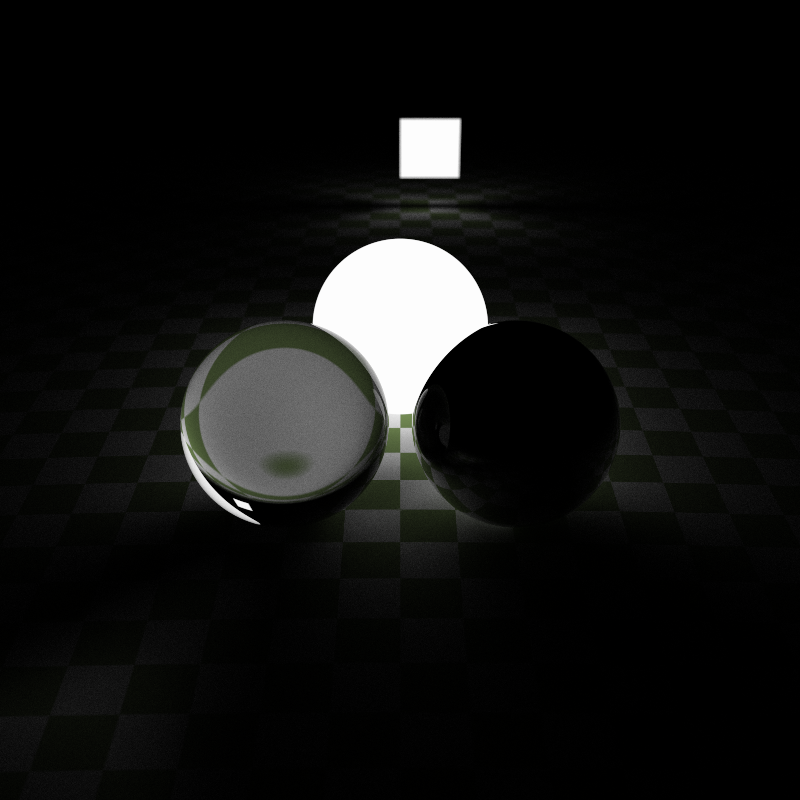
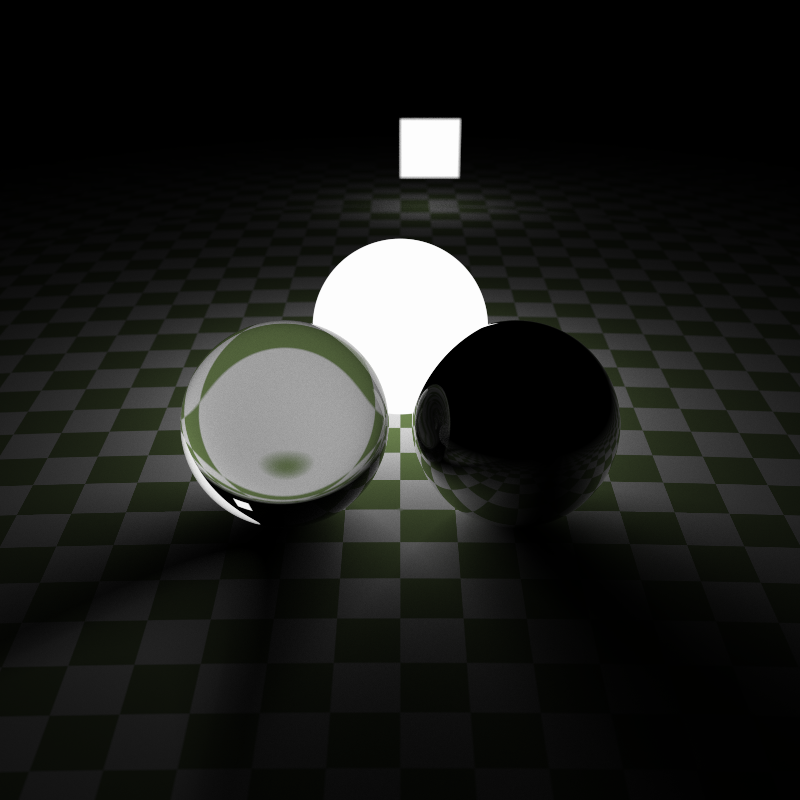
edit post

diff --git a/_posts/illumination/2024-10-30-mixture_density.md b/_posts/illumination/2024-10-30-mixture_density.md
@@ -1,0 +1,199 @@
+---
+layout: page
+title:  "混合密度"
+author: mosfet
+category: illumination
+tags: 着色 照明 理论 渲染器
+---
+混合密度的尝试[(见)](https://raytracing.github.io/books/RayTracingTheRestOfYourLife.html)。留存一些笔记和记录，而然结论无法保证正确性。  
+## 场景示例
+<div class="x gr txac">
+  <div class="x la flex mg0">
+    <div class="x la item3-lg item12 pd0">
+      <img src="/assets/i/4-1.png">
+    </div>
+    <div class="x la item3-lg item12 pd0">
+      <img src="/assets/i/4-2.png">
+    </div>
+    <div class="x la item3-lg item12 pd0">
+      <img src="/assets/i/4-3.png">
+    </div>
+  </div>
+  <p>图1：场景1。对球灯混合采样</p>
+</div>
+<div class="x gr txac">
+  <div class="x la flex mg0">
+    <div class="x la item3-lg item12 pd0">
+      <img src="/assets/i/4-4.png">
+    </div>
+  </div>
+  <p>图2：场景2。对顶灯混合采样 2024/02/22</p>
+</div>
+
+---
+## 准备
+通常情况下我永远不会强调之前的知识，但这次由于太过复杂作为**例外**。如果你已经看过辐射度理论，那么跳过这段话。  
+
+我假设您知道积分测量基本格`1*dμ`来测量域这一事实，那么通过两个积分比率`∫fxdμ`和`∫1dμ`可以得到新引入fx函数的同域平均值。  
+采样出空间中特定值的概率分布称为该随机采样变量相关的概率密度函数PDF，简单来说，这是一个因子。  
+
+我们用x、f(x)表示一个随机变量或任意随机结果函数，例如渲染结果的特定像素。  
+望值是一种对概率修正乘以实际值的积分，其定义`E(f(x)) = ∫f(x)p(x)dx`通过求和衰减实际值的概率因子获得总体上的平均值。换句话说，它查询整个域。  
+当密度相同时，一堆独立随机样本变量iid——通过`x1+x2+.../n`这种方式可以相当简单地获得数值期望解，而无需解析积分形式（但同样应该遵循密度函数以修正迭代值）。这就是蒙特卡洛积分方法的基本根据。  
+```ruby
+E(f(x)) = ∫f(x)p(x)dx           # E本身就是两项
+        ~= 1/N * Σ(i=1..N)xi.   # 数值均值估计
+
+        # 通常，将估计写成g/p的形式称为蒙特卡洛积分
+E(f(x)) = ∫f(x)p(x)dx
+        ~= 1/N [Σ(i=1..N)g(xi)/p(xi)]
+        # 即原始的f(x)p(x) = g，并显式除以p
+```
+接下来，重新回顾辐射度单位并查看渲染方程。  
+我们求解。在标准方程中，**不可能**存在我们提到的`px`密度，因为它是为特定BRDF的均匀采样设计的。  
+```ruby
+# 每个样本是vi
+E(Lo(vo)) ~= Σ gvi / pvi
+```
+
+---
+## 漫反射实验
+渲染方程是`g/p = ρLcosθ/p`。其中的要点是：BRDF-ρ(i,o)，以及g/p中的p项，即p是采样散射的密度。  
+
+回想一下原来的漫反射是什么。我们使用隐式方法修正分布，但随机数产生自均匀采样。  
+要理解本文做什么，还是得要从方程入手。  
+```cpp
+// 保留我们的基本原始实现
+void LambertianOriginal( in Material self, in vec3 rec_n, out vec3 rayd, out vec3 albedo) {
+  rayd = rec_n + H_random_unit_vector();
+  if (H_nearlly_zero(rayd)) rayd = rec_n;
+  albedo *= self.albedo;
+}
+```
+
+#### 推导朗伯分布密度(5) 
+散射半球的概率积分为`1`，我们可以从朗伯的本身行为推测密度函数。  
+由于这个概率受到角度余弦值`C * cosθ`线性影响(随着角度具有更大概率或配重)，
+从球极位系积分是一个好技巧，该倍率为`C=1/pi`，以缩放到代表其每一处的基本概率。因此`PDF = cosθ / pi`。  
+```ruby
+∫hemisphere|pdf = 1
+```
+
+原作者将这个密度称为`sp(散射密度)`，但笔者没弄白这是什么以及属于哪个部分，似乎可能是"BRDF"的一部分并用于我们接下来用渲染方程代替。  
+至少现在我们可以从一个可用的密度函数开始审视方程。  
+
+#### 朗伯渲染方程和重要性采样(6)
+这里有一个奇怪的结论，**朗伯行为的BRDF就是朗伯密度PDF**。因此当前渲染方程为`L *= (self.albedo) ρdot(n, out) / p`。注意反照率从未在方程中说明，而是通常结合在BRDF中。  
+我不清楚隐式行为(即看上去类似于又一次额外分配)和BRDF有什么关系，均匀生成散射并使用BRDF似乎已经说明了让结果符合朗伯。  
+目前的推测是，如果再使用隐式分配或者除以对应的采样密度(前者可以仍然保持p为更简单的均匀采样)，这两种方式的效果是一样的。而这个过程已经称为重要性采样策略，使得结果更快符合BRDF模型。  
+```cpp
+// 明确渲染方程
+void Lambertian( in Material self, in vec3 rec_n, out vec3 rayd, out vec3 albedo) {
+  rayd = rec_n + H_random_unit_vector();
+  if (H_nearlly_zero(rayd)) rayd = rec_n;
+
+  float lambertian_brdf = dot(rec_n, normalize(rayd)) / C_PI;
+  float p = 1.0 / C_TWO_PI;
+  albedo *= self.albedo * lambertian_brdf * dot(rec_n, rayd) / p;
+}
+```
+实际上我得到了与以往都更亮的结果。  
+
+相同的BRDF材料不会影响收敛结果，重要性采样(隐式或密度)仅影响收敛速度。  
+结果本身只受材料的散射行为(BRDF)影响。改变材质将从根本上改变渲染，算法将收敛到不同的答案。  
+
+存在的差异不仅仅是噪音。高大的盒子正面颜色更加均匀。如果您不确定材质的最佳采样模式是什么，那么继续假设均匀采样是相当合理的，虽然这可能会缓慢收敛，但它不会破坏您的渲染。
+也就是说，先确保你的BRDF是绝对正确的，在考虑是否需要快速采样。如果使用了错误的BRDF，这种错误很难发现，因为你不知道初始就应该正确的样子。  
+
+---
+## 引导灯密度(9)
+如前所述(PBR)，阴影光线可能是解决直接照明问题的一种办法。  
+而然，想象一下，实际上可以通过将散射区域完全只指向灯光获得类似的效果，即令表面仅可能被来自灯光方向的光线照亮。  
+在代码上，这可能很抽象，你只需要强制指定这次散射指向被采样的光线。  
+
+如果用上文的话来说，这同样是隐式重要性采样，**但此时必须更改BRDF正确**。有这种BRDF吗？这可能吗？唯一的方法就是计算采样灯球的密度函数。  
+```
+抓取索引光线 -> 计算密度 -> 应用密度因子
+```
+唯一的问题是我们需要知道`p(v)`，但那是什么？  
+```ruby
+# 最好将点和角度视为微面和微立体角。dA dv，dA比dv的面积大得多，这是有道理的
+# 我们通过采样dA(知道其概率)进而采样dv(的概率)，因此可以获得正确的p
+P(dA) = 1 / A   # 1/A
+p(dv) = ?        #
+
+# 面积dA、dv存在几何关系
+dv = dAcosθ / dot(grab-p, grab-p)  # 注意，将其视为面积，而点则只是点，提供距离
+# 由于采样概率相同
+  p(dv) = p(da)    # 这里可以视为点………
+p(dv)dv = p(da)dA
+
+p(dv) = dot(grab-p,grab-p)/ cosθA
+```
+```cpp
+// 采样灯光
+float tmp_area;
+void grab_lightray(out vec3 origin, out vec3 ray) {
+  // get a lightsource point
+  vec3 light_pos = vec3(-1.25 + H_rand(0.0, 2.5), 4.99, -1.5 + H_rand(0.0, 2.0));
+  // calc area
+  tmp_area = 5.0;
+  ray = light_pos - origin;
+}
+float lights_pdf( in vec3 lightray, in vec3 n) {
+  float dist_square = dot(lightray, lightray);
+  lightray = normalize(lightray);
+  float n_cosine = dot(n, lightray);
+  if (n_cosine < 0.0) return -1.0; // 拒绝与灯相背离的遮挡表面
+  float p = dist_square / (dot(n, lightray) * tmp_area);
+  return p;
+}
+```
+我们已经知道如何将散射线定向至灯源，从而忽略其他方向，并因为在下一次击中灯具结束。  
+这种定向到直接照明灯具的材料似乎可以视作一种新BRDF材料，因为其散射很特别。  
+先尝试一下覆盖漫射表面，对于其他材料BRDF，暂时先不说明有什么用。  
+```cpp
+// if (material.mid == M_LAMBERTIAN) {
+  // Lambertian(material, normal, ray_path, albedo);
+
+  grab_lightray(p, ray_path);
+  float lights_p = lights_pdf(ray_path, normal);
+  if (lights_p < 0.0) return vec3(0.0);
+  albedo *= material.albedo / lights_p;
+// }
+```
+
+---
+## 混合模式(10)
+```cpp
+if (rand() < 0.5) {
+  grab_lightray(p, ray_path);
+  float lights_p = lights_pdf(ray_path, normal);
+  if (lights_p < 0.0) return vec3(0.0);
+  albedo *= material.albedo / lights_p;
+} else {
+  Lambertian(material, normal, ray_path, albedo);
+}
+```
+最后我们介绍混合多种重要性采样的机制以合并结果。  
+①最简单的方式是让光线随机选择一个PDF采样。例如，对半可能是个不错的选择。  
+但这种方式会在迭代时出现大量明暗线，因为单次结果混乱，尽管不影响结果。  
+
+②另一种方式是**单次**采样**已混合的PDF**，从而获得更为接近结果的平缓度。  
+回忆一下，朗伯的重要性模式是隐式强制实现的，在其**渲染方程形式**实际所使用的密度实际上仍然为均匀因子。**我们复制出来作为参考。**  
+目的是混合这两个PDF。  
+
+概念上理解有点困难，总之，笔者暂时不使用这个。  
+```cpp
+```
+
+---
+#### 对比阴影光线(11)
+本文说明的`混合密度(mixture density)`是对更传统的**阴影光线**的替代方法。除了灯光之外，还可以对窗户或门下明亮的裂缝或任何您认为可能明亮或重要的东西进行采样。但大多数专业路径追踪器中看到阴影光线也是很正常的。  
+对于粗略结果来说，阴影光线往往比混合密度更便宜，并且在实时中变得越来越普遍。  
+
+#### 尾章(12)
+玻璃物体很难很好地渲染，除了灯光以外可能还需要另一些进行重要性采样。  
+
+12.3.  
+略暂不实现。  

diff --git a/_posts/illumination/2024-10-24-illumination.md b/_posts/illumination/2024-10-24-illumination.md
@@ -1,14 +1,14 @@
 ---
 layout: page
-title:  "照明"
+title:  "方法"
 author: mosfet
 category: illumination
 tags: 着色 照明
 ---
-如何巧妙组合各种着色技术可能是一项复杂的决策。  
-除了经典的全局光照算法外，传统着色模型可以通过精心设计的调整为场景提供可信的照明。  
+有许多照明或者着色技术，如何对场景根据需要选择渲染方式和照明？  
+经典的全局光照算法之外，传统着色模型也可以通过精心设计的调整为场景提供可信的照明！  
 
-**户外照明**(Inigo Quilez介绍的方法)  
+**非全局照明**  
 对大型景观进行户外照明时，间接照明的贡献只是适度且可预测的。  
 基本上由3或4个定向灯、一个阴影、一些环境光遮蔽和一个雾层组成。  
 
